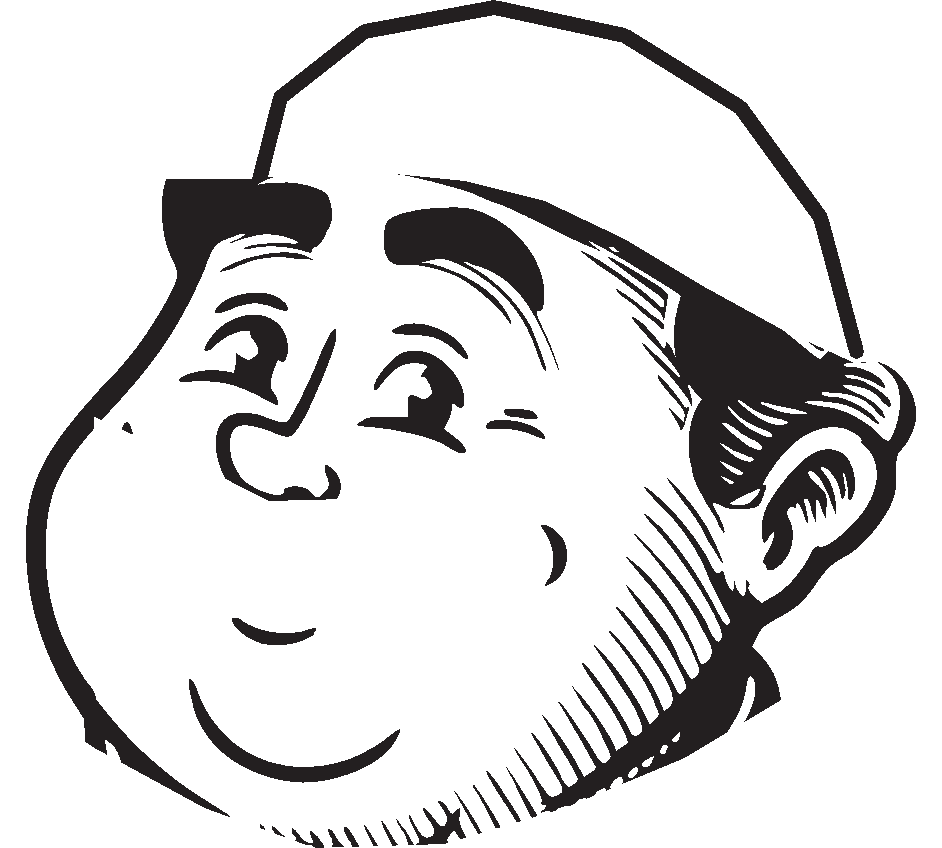
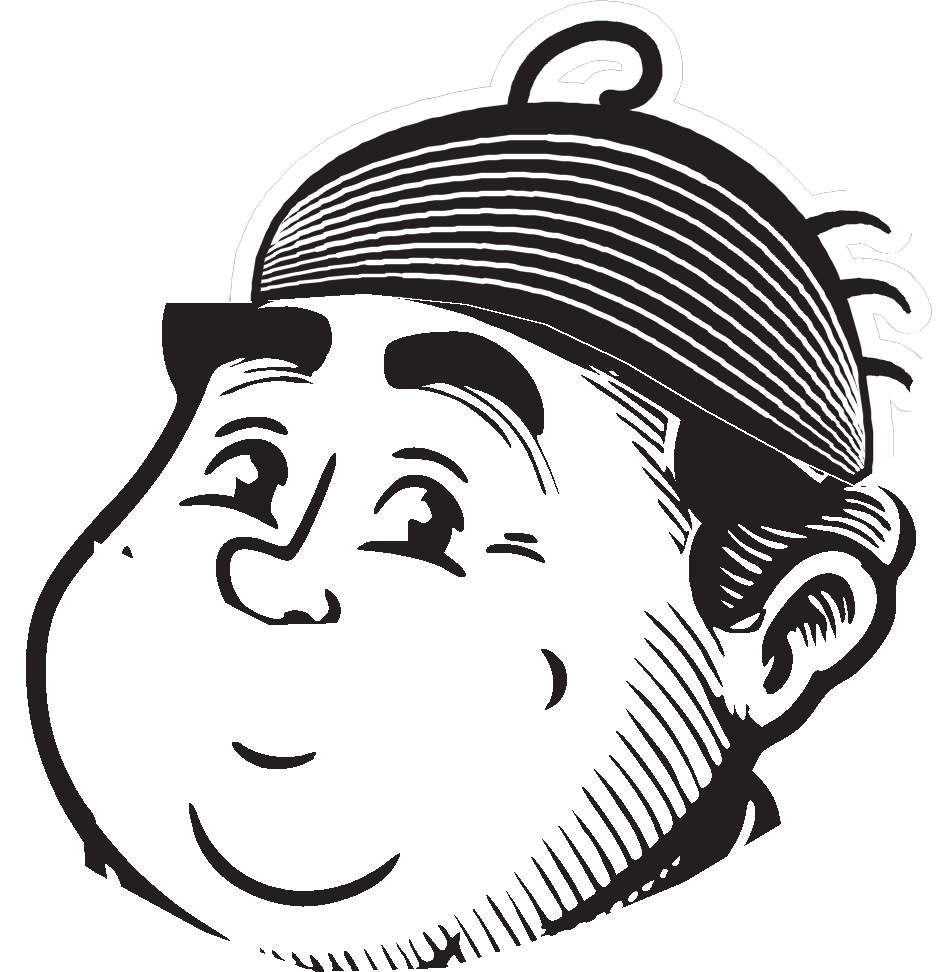
Barbar TV menu: give the chef slicked-back hair under his hat
Engraved hair (comb lines, a curl on top, strands at the back) drawn into the head
layer and clipped to the hat's outline, so it only shows when the hat comes off.

Claude-Session: https://claude.ai/code/session_01N8voRnMyNvU8CCxjjmqMUs

diff --git a/barbar-tv/index.html b/barbar-tv/index.html
@@ -195,7 +195,7 @@ const SCREENS = {
     ] },
 };
 /* rig parts: [x, y, w, h] in badge units, cut from their badge by the scratch cut script */
-const META = {"torso": [138.5, 262.5, 690.0, 516.5], "arm": [102.0, 453.0, 243.5, 326.0], "hand": [14.0, 321.0, 253.5, 149.5], "head": [298.0, 196.5, 471.0, 424.0], "mst": [345.0, 405.0, 225.5, 100.5], "hat": [380.0, 61.5, 395.0, 317.0]};
+const META = {"torso": [138.5, 262.5, 690.0, 516.5], "arm": [102.0, 453.0, 243.5, 326.0], "hand": [14.0, 321.0, 253.5, 149.5], "head": [298.0, 134.5, 471.0, 486.0], "mst": [345.0, 405.0, 225.5, 100.5], "hat": [380.0, 61.5, 395.0, 317.0]};
 
 const LOOP = 60, FPS = 30;
 const qs = new URLSearchParams(location.search), TV = +(qs.get('tv') || 1), S = SCREENS[TV] || SCREENS[1];
